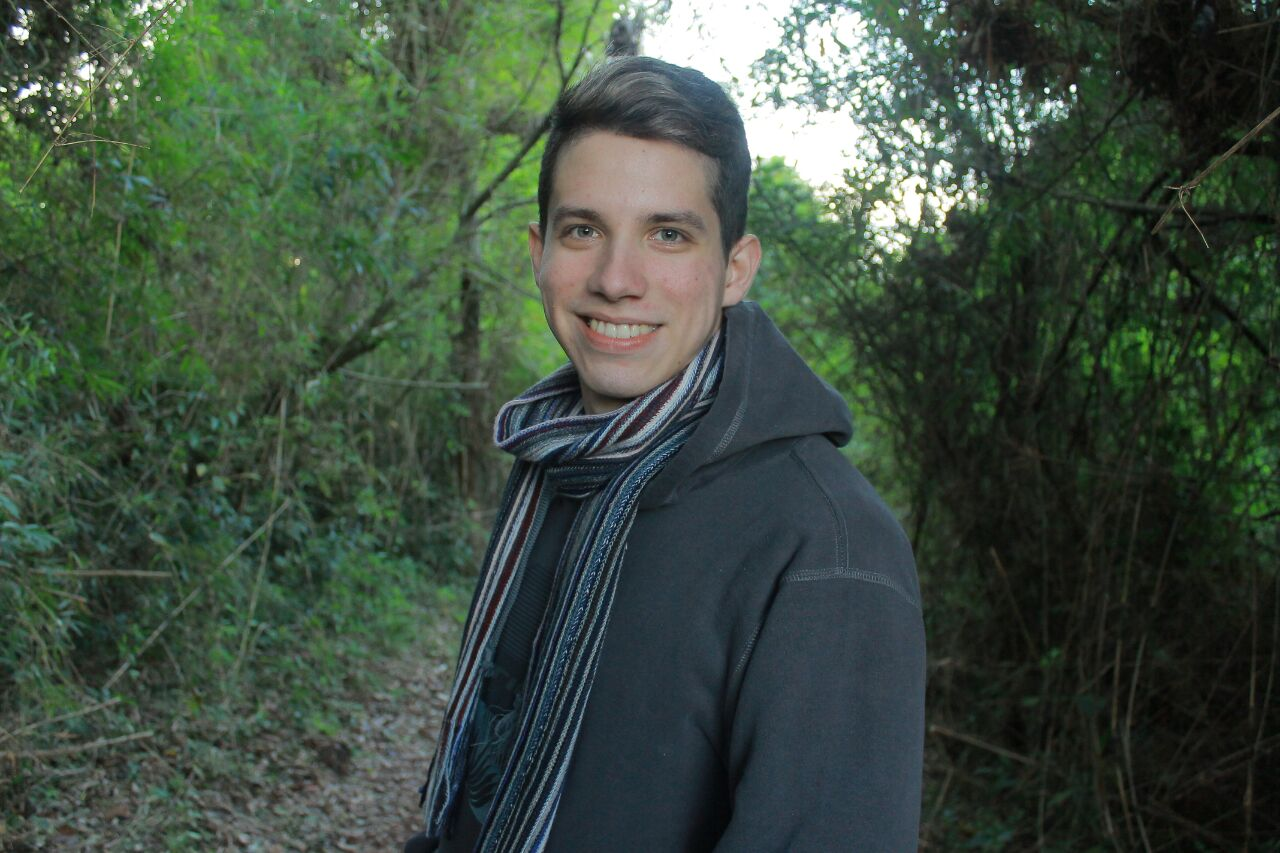
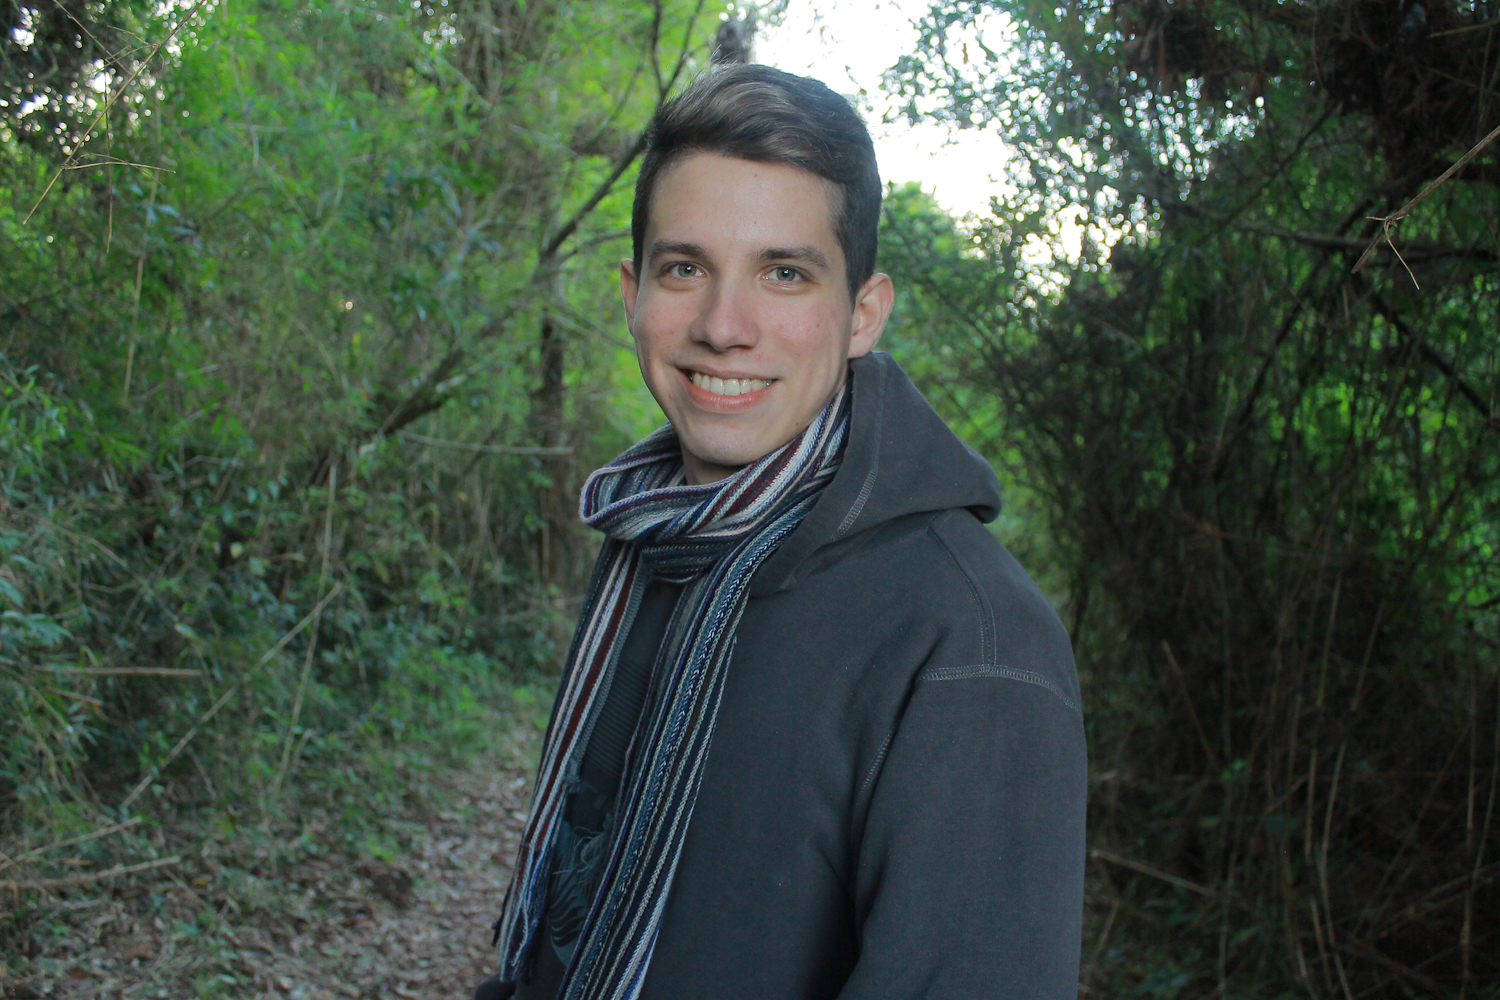
change img parallax

diff --git a/pages/index.vue b/pages/index.vue
@@ -1,5 +1,5 @@
 <template lang="pug">
-  v-parallax(:src="martin")
+  v-parallax(:src="martin" height="550")
     v-row(
       align="center"
       justify="center"
